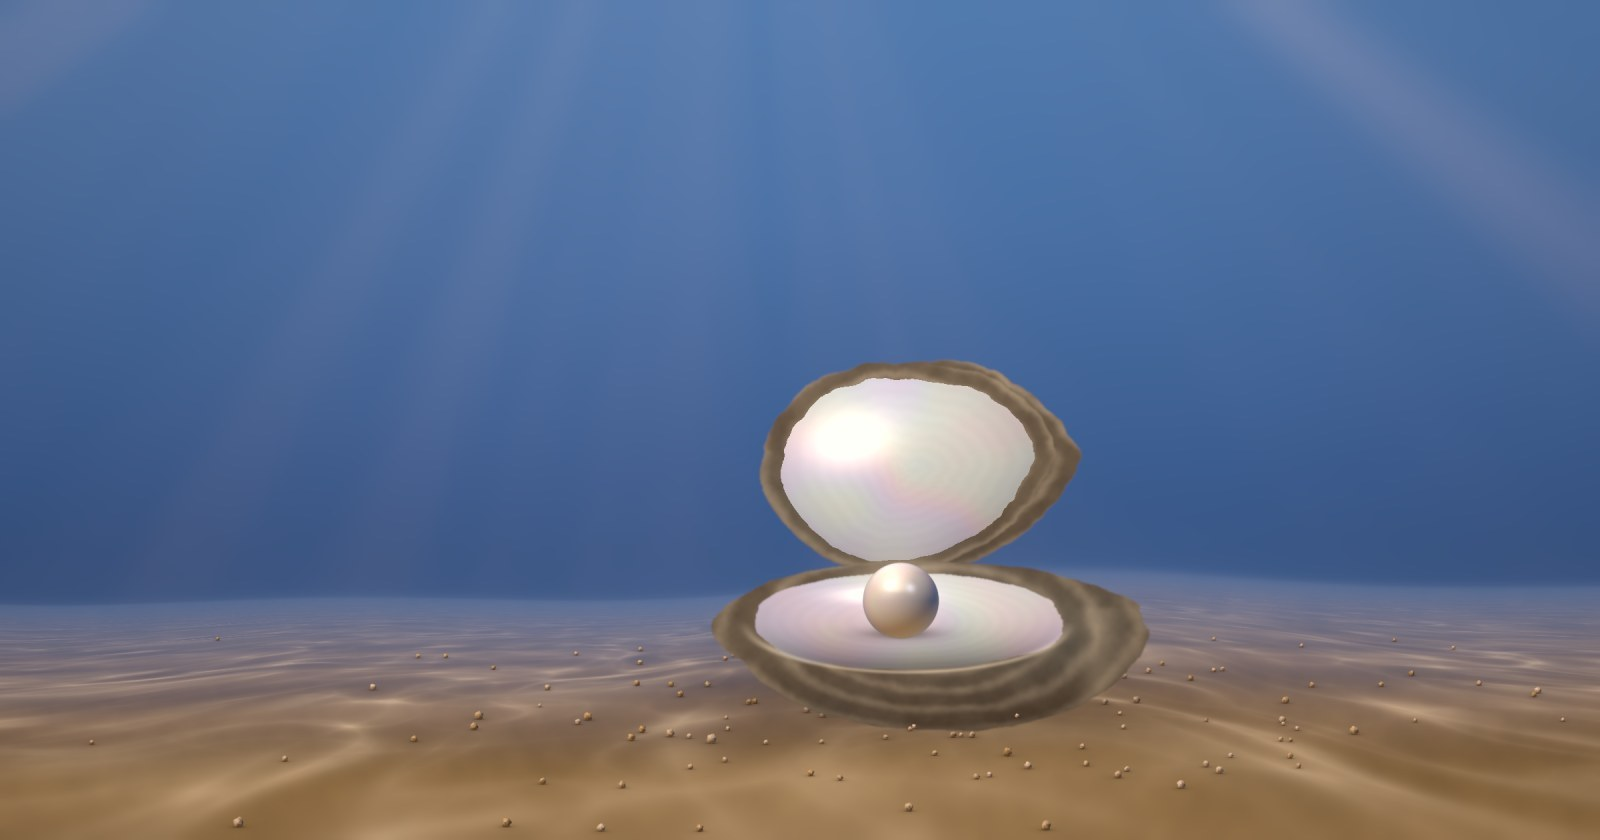
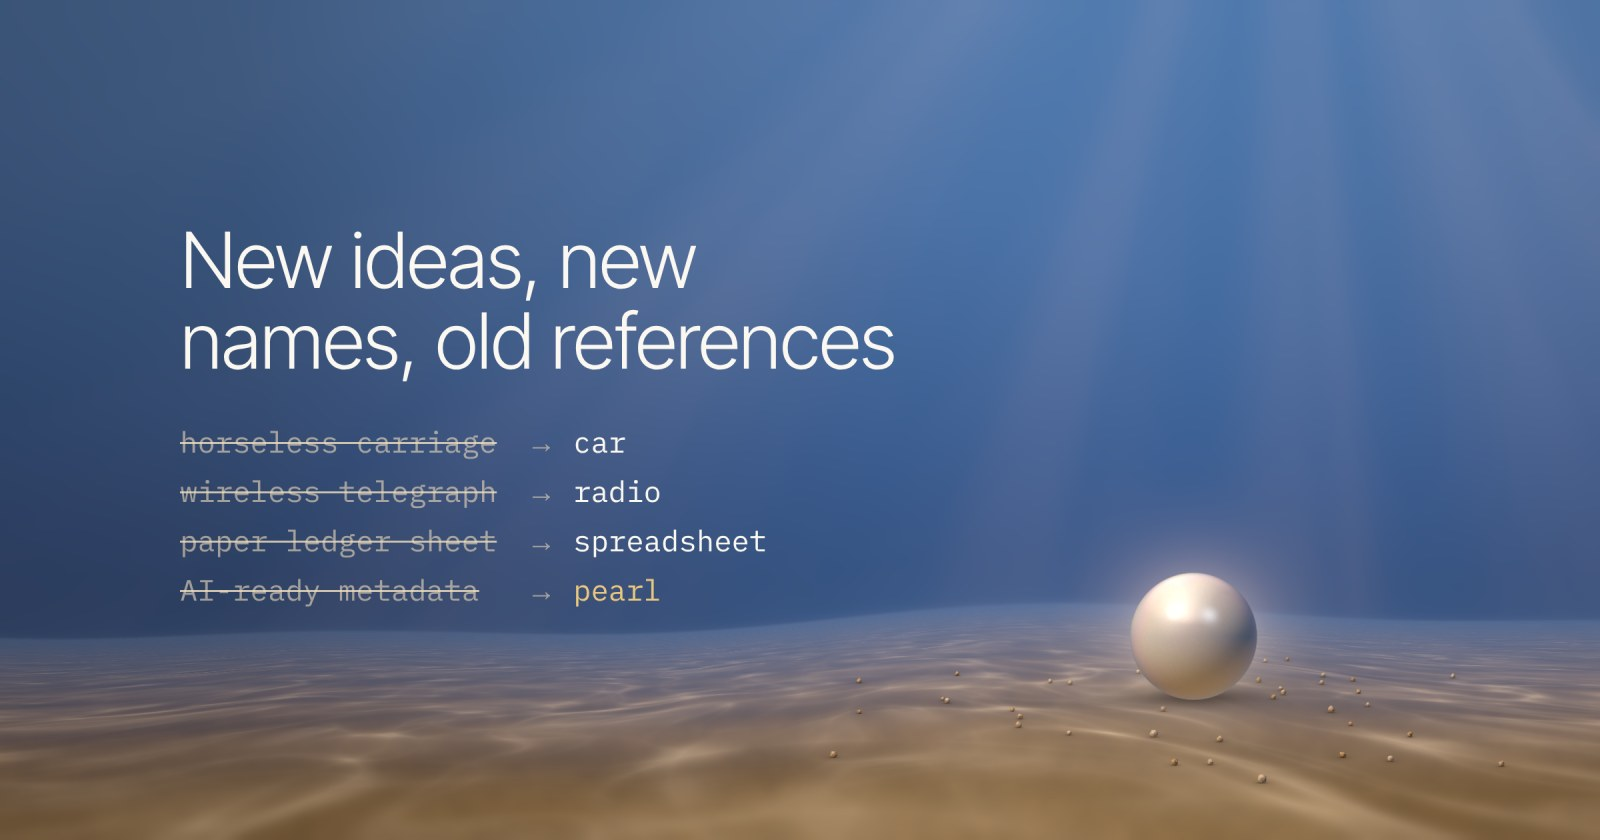
Ship's Log: new cover for "New ideas, new names, old references" (Designer v1126_2: pearl right, struck-out names left); light from upper right; alt text; new og image (Ani)
Claude-Session: https://claude.ai/code/session_01RSy921qqnfkSxHgkthsN9c

diff --git a/blog/index.html b/blog/index.html
@@ -252,7 +252,7 @@ html { scroll-padding-top: 136px; }
   <div class="wrap">
     <div class="hero hero-sub">
       <p class="where">Ship’s Log</p>
-      <figure class="cover" data-dir="a"><img src="/blog/new-ideas-new-names/cover.jpg" alt="" width="1600" height="840"><canvas class="fx" aria-hidden="true"></canvas><canvas class="water cover-water" aria-hidden="true"></canvas></figure>
+      <figure class="cover" data-dir="a"><img src="/blog/new-ideas-new-names/cover.jpg" alt="New ideas, new names, old references. Horseless carriage, struck out: car. Wireless telegraph, struck out: radio. Paper ledger sheet, struck out: spreadsheet. AI-ready metadata, struck out: pearl. A single pearl rests on the sea floor in shafts of light." width="1600" height="840"><canvas class="fx" aria-hidden="true"></canvas><canvas class="water cover-water" aria-hidden="true"></canvas></figure>
     </div>
   </div>
 </div>
@@ -403,7 +403,7 @@ document.addEventListener('click', function (ev) {
 </script>
 <script>
 /* Ship's Log cover motion (Designer v1126_1, cover A), verbatim from the preview. */
[2 lines of base64/hex data omitted]
 /* Ship's Log cover, alive: sun shafts sway, light shimmers on the sand, bubbles rise, the pearl glints.
    Drawn over the still painting; holds still with reduced motion. */
 (function () {
@@ -430,7 +430,7 @@ var GEO = {"pearl": [0.5628333333333333, 0.7147460317460318, 0.02416666666666666
   var shafts = [];
   for (var i = 0; i < 9; i++) shafts.push({ a: -0.62 + i * 0.15 + (Math.random() - 0.5) * 0.06, w: 0.018 + Math.random() * 0.03, sp: 0.12 + Math.random() * 0.2, ph: Math.random() * 6.28, k: 0.5 + Math.random() * 0.5 });
   function drawShafts(t) {
-    var sx = 0.46 * Wc, sy = -0.55 * Hc, L = Hc * 1.9;
+    var lt = G.light || [0.46, -0.55], sx = lt[0] * Wc, sy = lt[1] * Hc, L = Hc * 1.9;
     ctx.save(); ctx.globalCompositeOperation = 'screen';
     try { ctx.filter = 'blur(' + Math.round(10 * dpr) + 'px)'; } catch (e) {}
     shafts.forEach(function (s) {

diff --git a/blog/new-ideas-new-names/index.html b/blog/new-ideas-new-names/index.html
@@ -252,7 +252,7 @@ html { scroll-padding-top: 136px; }
   <div class="wrap">
     <div class="hero hero-sub">
       <p class="where">Ship’s Log</p>
-      <figure class="cover" data-dir="a"><img src="/blog/new-ideas-new-names/cover.jpg" alt="" width="1600" height="840"><canvas class="fx" aria-hidden="true"></canvas><canvas class="water cover-water" aria-hidden="true"></canvas></figure>
+      <figure class="cover" data-dir="a"><img src="/blog/new-ideas-new-names/cover.jpg" alt="New ideas, new names, old references. Horseless carriage, struck out: car. Wireless telegraph, struck out: radio. Paper ledger sheet, struck out: spreadsheet. AI-ready metadata, struck out: pearl. A single pearl rests on the sea floor in shafts of light." width="1600" height="840"><canvas class="fx" aria-hidden="true"></canvas><canvas class="water cover-water" aria-hidden="true"></canvas></figure>
     </div>
   </div>
 </div>
@@ -403,7 +403,7 @@ document.addEventListener('click', function (ev) {
 </script>
 <script>
 /* Ship's Log cover motion (Designer v1126_1, cover A), verbatim from the preview. */
[2 lines of base64/hex data omitted]
 /* Ship's Log cover, alive: sun shafts sway, light shimmers on the sand, bubbles rise, the pearl glints.
    Drawn over the still painting; holds still with reduced motion. */
 (function () {
@@ -430,7 +430,7 @@ var GEO = {"pearl": [0.5628333333333333, 0.7147460317460318, 0.02416666666666666
   var shafts = [];
   for (var i = 0; i < 9; i++) shafts.push({ a: -0.62 + i * 0.15 + (Math.random() - 0.5) * 0.06, w: 0.018 + Math.random() * 0.03, sp: 0.12 + Math.random() * 0.2, ph: Math.random() * 6.28, k: 0.5 + Math.random() * 0.5 });
   function drawShafts(t) {
-    var sx = 0.46 * Wc, sy = -0.55 * Hc, L = Hc * 1.9;
+    var lt = G.light || [0.46, -0.55], sx = lt[0] * Wc, sy = lt[1] * Hc, L = Hc * 1.9;
     ctx.save(); ctx.globalCompositeOperation = 'screen';
     try { ctx.filter = 'blur(' + Math.round(10 * dpr) + 'px)'; } catch (e) {}
     shafts.forEach(function (s) {

diff --git a/_blog/partials/cover-fx.js b/_blog/partials/cover-fx.js
@@ -1,5 +1,5 @@
 /* Ship's Log cover motion (Designer v1126_1, cover A), verbatim from the preview. */
[2 lines of base64/hex data omitted]
 /* Ship's Log cover, alive: sun shafts sway, light shimmers on the sand, bubbles rise, the pearl glints.
    Drawn over the still painting; holds still with reduced motion. */
 (function () {
@@ -26,7 +26,7 @@ var GEO = {"pearl": [0.5628333333333333, 0.7147460317460318, 0.02416666666666666
   var shafts = [];
   for (var i = 0; i < 9; i++) shafts.push({ a: -0.62 + i * 0.15 + (Math.random() - 0.5) * 0.06, w: 0.018 + Math.random() * 0.03, sp: 0.12 + Math.random() * 0.2, ph: Math.random() * 6.28, k: 0.5 + Math.random() * 0.5 });
   function drawShafts(t) {
-    var sx = 0.46 * Wc, sy = -0.55 * Hc, L = Hc * 1.9;
+    var lt = G.light || [0.46, -0.55], sx = lt[0] * Wc, sy = lt[1] * Hc, L = Hc * 1.9;
     ctx.save(); ctx.globalCompositeOperation = 'screen';
     try { ctx.filter = 'blur(' + Math.round(10 * dpr) + 'px)'; } catch (e) {}
     shafts.forEach(function (s) {

diff --git a/_blog/build.py b/_blog/build.py
@@ -198,7 +198,7 @@ def post_parts(i):
     if p.get("cover"):
         # Post with a cover: the painting sits in the top band, feathered into the moving water (Designer v1126_1).
         hero = (f'<p class="where">Ship’s Log</p>\n      <figure class="cover" data-dir="a">'
-                f'<img src="/blog/{p["slug"]}/{p["cover"]}" alt="" width="1600" height="840">'
+                f'<img src="/blog/{p["slug"]}/{p["cover"]}" alt="{e(p.get("cover_alt", ""))}" width="1600" height="840">'
                 '<canvas class="fx" aria-hidden="true"></canvas><canvas class="water cover-water" aria-hidden="true"></canvas></figure>')
         band, extra_js = " sea-cover", f"<script>\n{COVER_FX_JS}</script>"
     head = (f'<header class="post-head">\n        <p class="date"><time datetime="{p["date"]}">{fmt(p["date"])}</time></p>\n'
